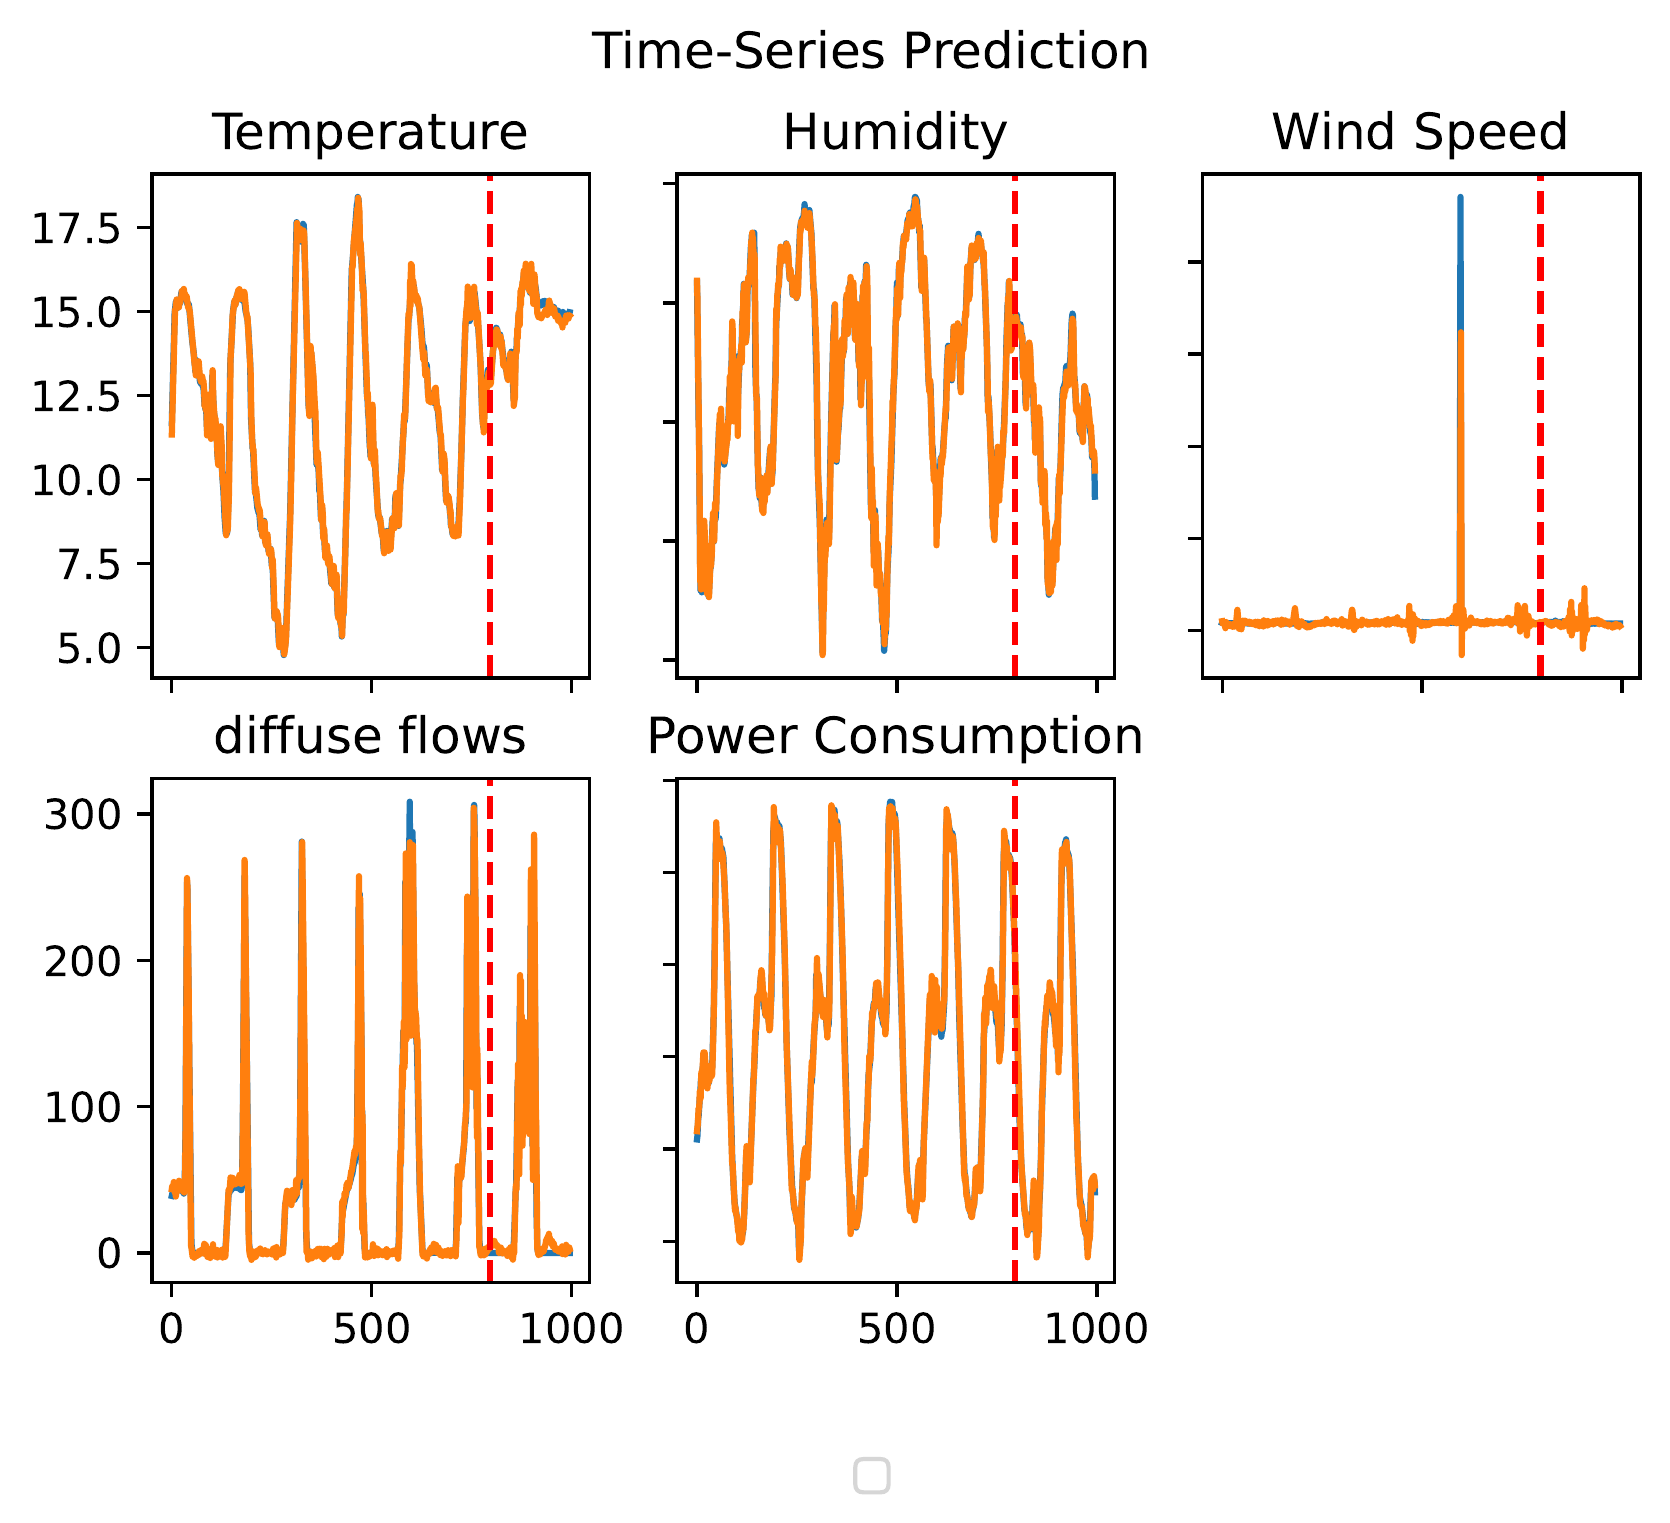
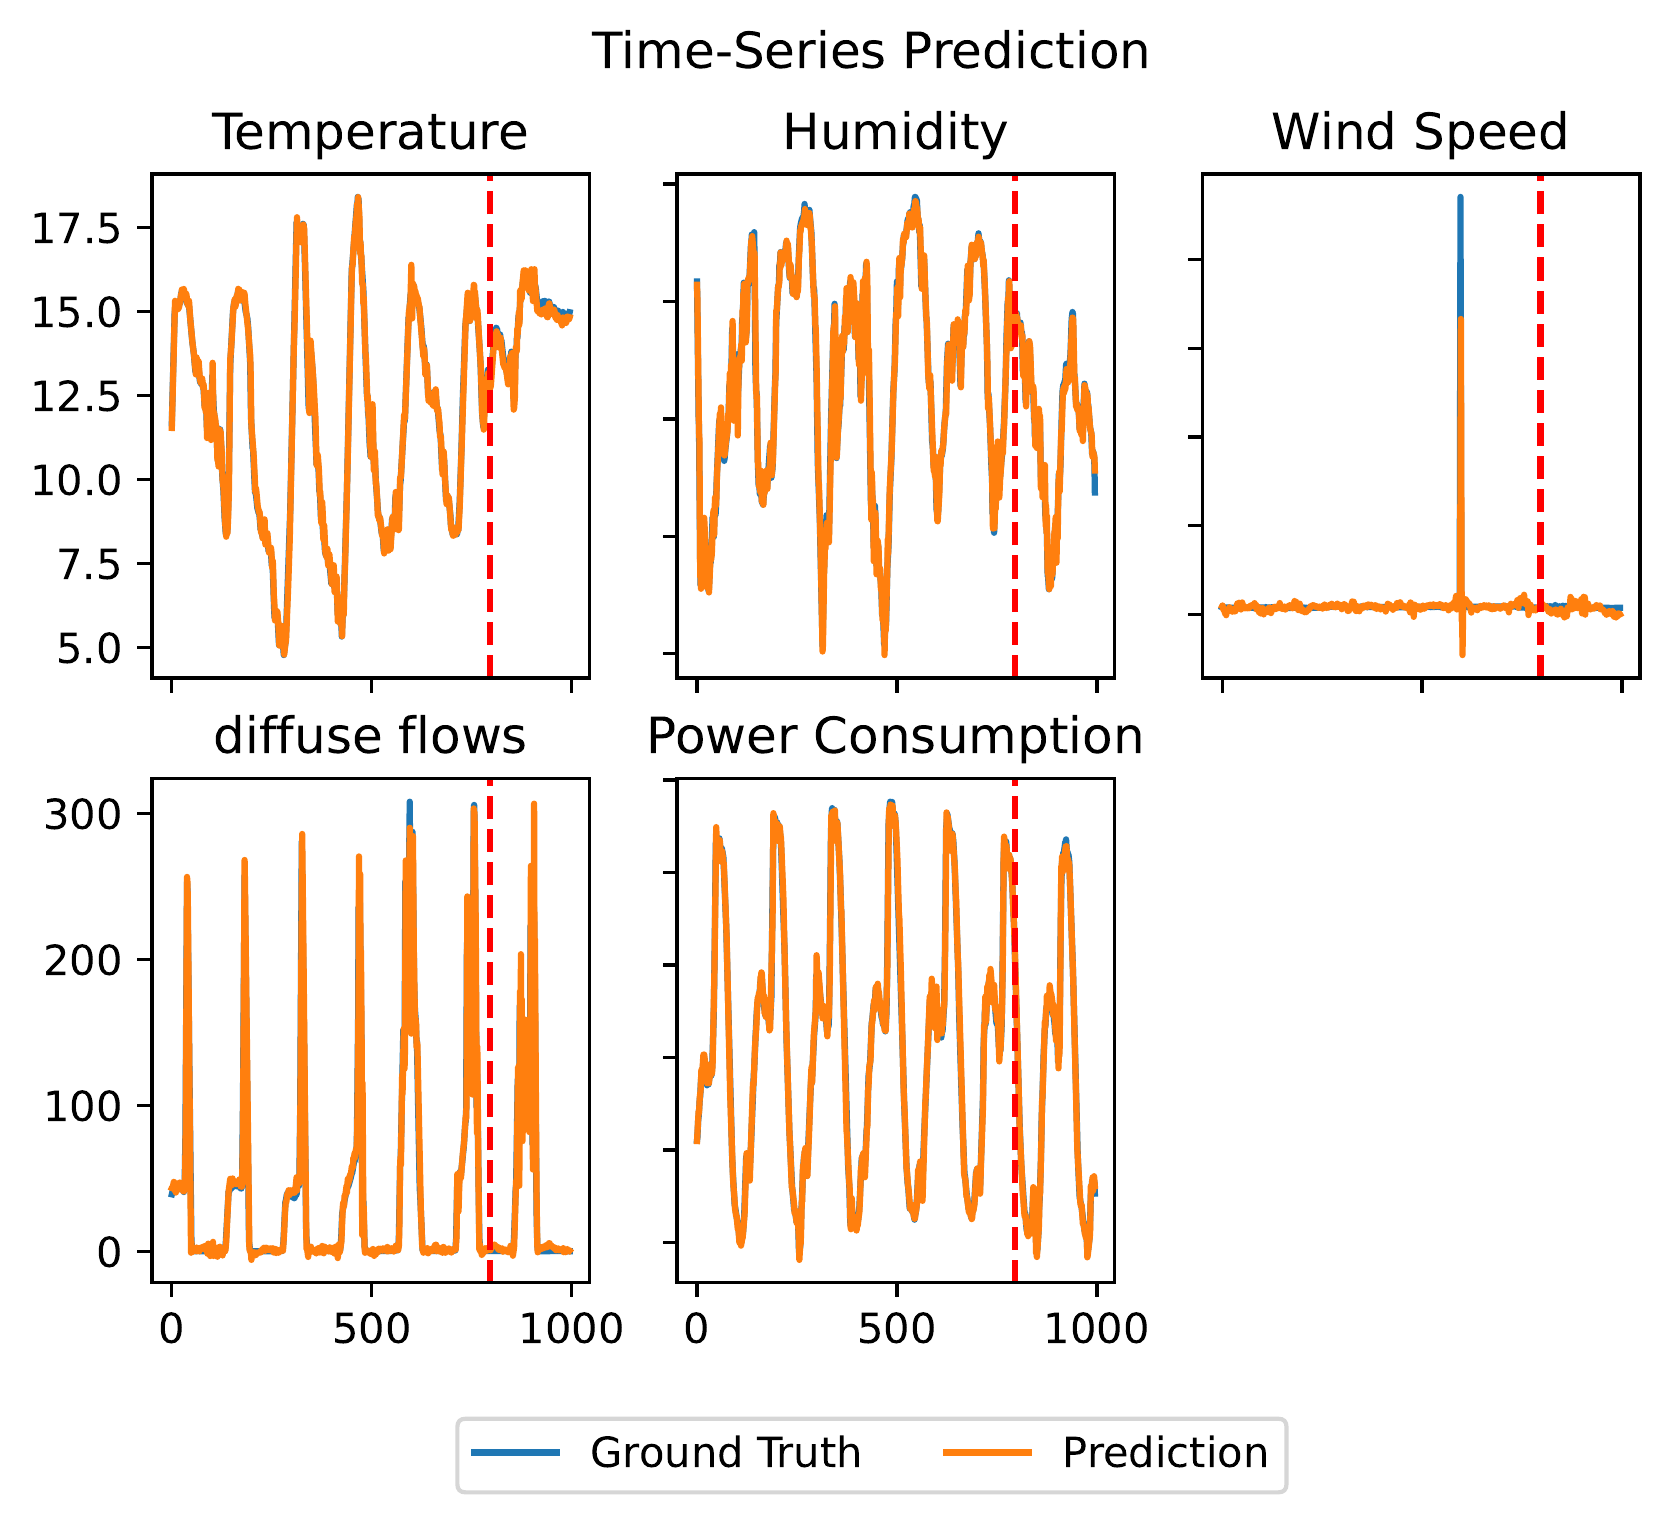
remove axis for unplotted subplot

diff --git a/data_visualization.py b/data_visualization.py
@@ -28,6 +28,11 @@ def plot_input_data(column_name_list, input_data, plot_title, output_image_name)
 
             # Check if finish plotting
             if (count_num_plot + 1) == num_plot:
+                # Remove unplotted axis
+                while j < (num_col - 1):
+                    j += 1
+                    axs[i, j].axis("off")
+
                 # Remove inner axis label
                 for ax in axs.flat:
                     ax.label_outer()
@@ -81,12 +86,17 @@ def plot_prediction(
 
                 # Check if finish plotting
                 if (count_num_plot + 1) == num_plot:
+                    # Remove unplotted axis
+                    while j < (num_col - 1):
+                        j += 1
+                        axs[i, j].axis("off")
+
                     # Remove inner axis label
                     for ax in axs.flat:
                         ax.label_outer()
 
                     # Add legend
-                    plt.legend(
+                    fig.legend(
                         ["Ground Truth", "Prediction"],
                         loc="lower center",
                         bbox_to_anchor=(0, -0.05, 1, 1),
